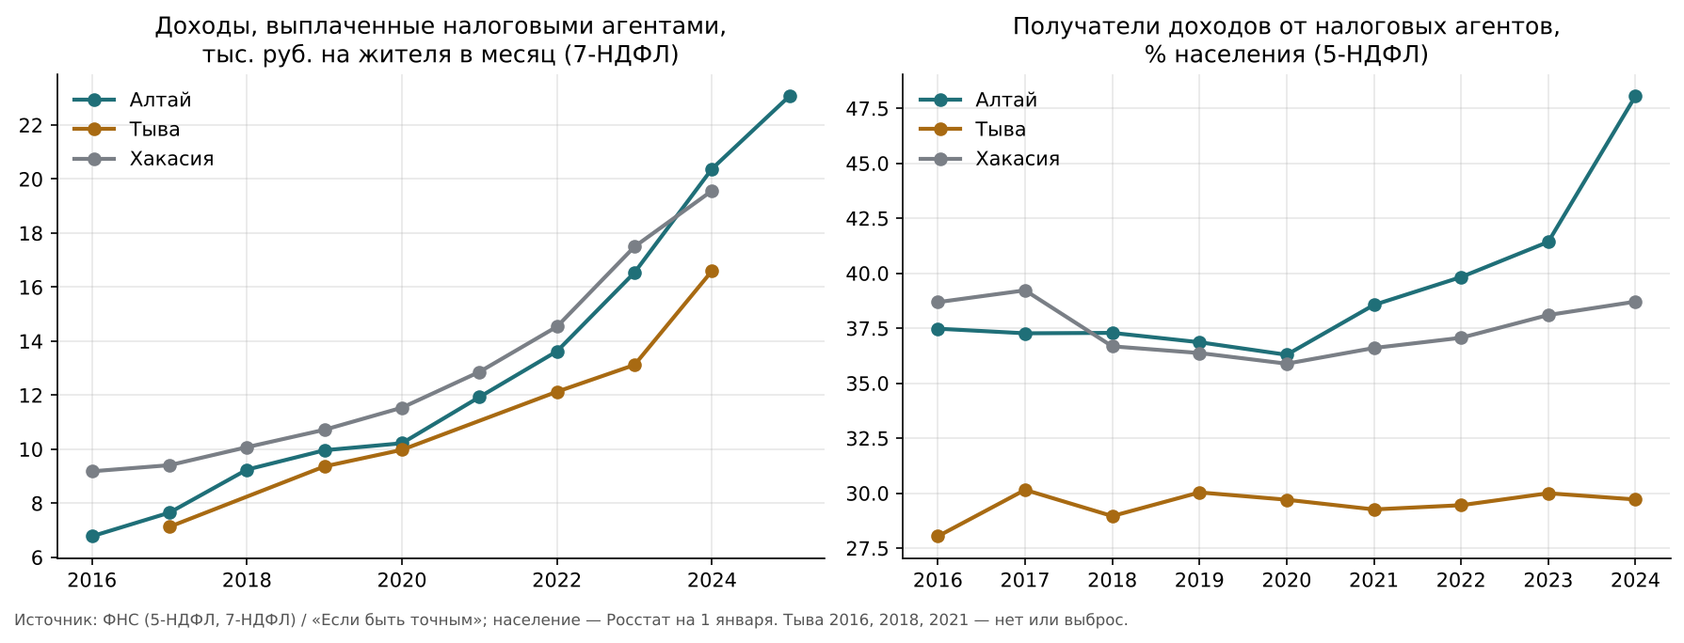
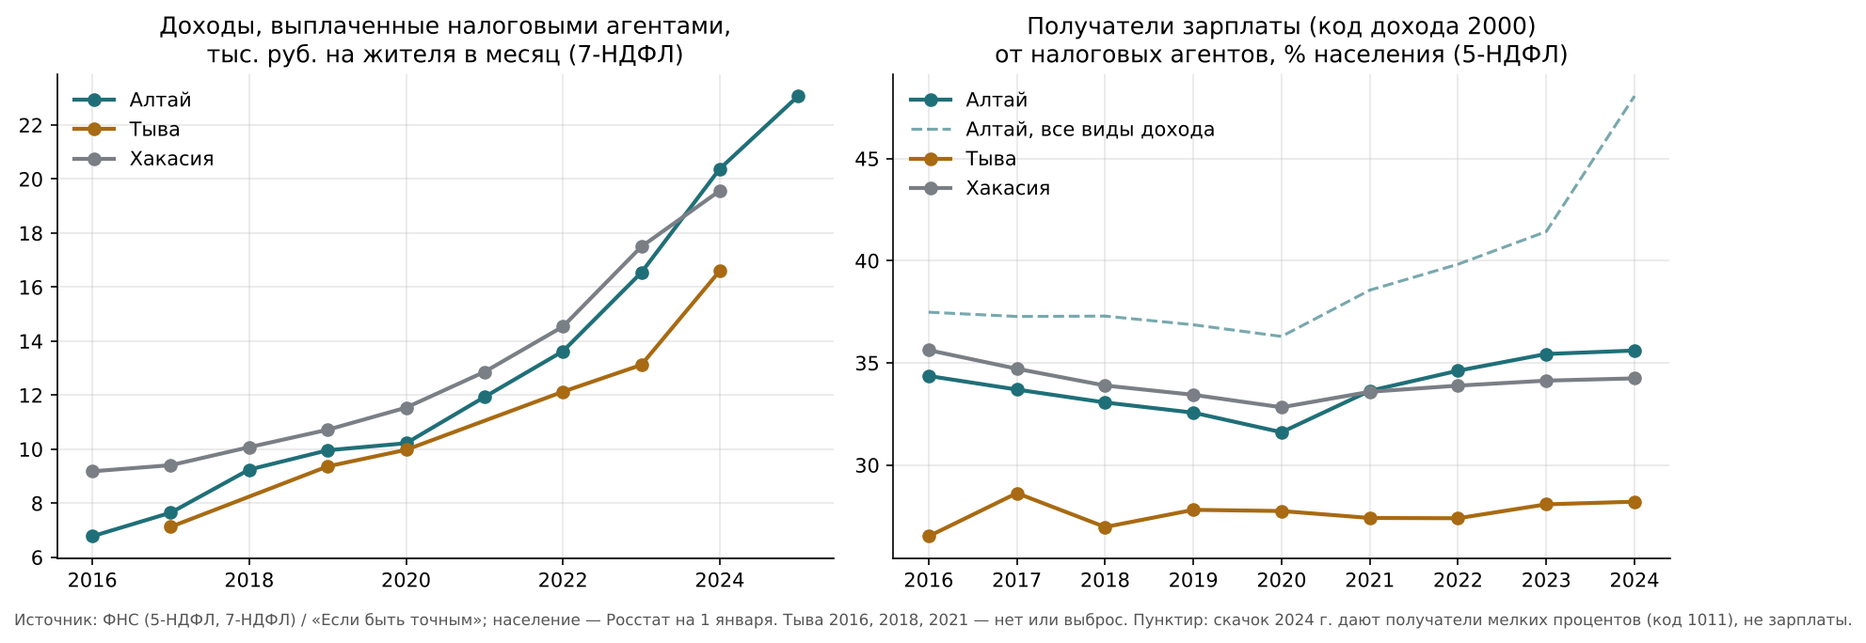
НДФЛ: кейс Турочака — получатели процентов (код 1011), доля получателей зарплаты вместо всех доходов
Claude-Session: https://claude.ai/code/session_01YWbzRBDVhnUeGXhVfuv4MR

diff --git a/scripts/dataset/build_ndfl.py b/scripts/dataset/build_ndfl.py
@@ -69,10 +69,21 @@ pop = c.sql(f"""select object_name region, year, avg(indicator_value)*1000 pop f
 pop['year'] = pop.year + 1
 pop = pd.concat([pop, pd.DataFrame([{'region': 'Республика Алтай', 'year': 2025, 'pop': 210095}])])
 pop = pop.rename(columns={'pop': 'pop_avg'})
+codes = c.sql(f"""select report_region_name region, year, income, arg_max(indicator_value, report_date) v from a
+   where index_form='5-НДФЛ' and indicator_code='Y777000028' and object_level='Субъект РФ' and report_type='Свод'
+   and individual_type in ('Всего','CD') and coalesce(tax_rate,'CD') in ('Всего','CD') and tax_authority='Всего'
+   and indicator_period='Значение показателя за год' and source not like 'Приложение%'
+   and income in ('По коду дохода 2000','По коду дохода 1011') group by all""").df()
+codes = codes.pivot_table(index=['region', 'year'], columns='income', values='v').reset_index().rename(columns={
+    'По коду дохода 2000': 'wage_earners_5', 'По коду дохода 1011': 'interest_recipients_5'})
+reg = reg.merge(codes, on=['region', 'year'], how='left')
+LOG.append('Код дохода 1011 (проценты): РА 1 411 (2023) → 15 270 (2024) получателей — именно он даёт скачок числа получателей доходов в 2024 г.; '
+           'получатели зарплаты (код 2000) почти не изменились')
 reg = reg.merge(pop[['region', 'year', 'pop_avg']], on=['region', 'year'], how='left')
 reg['income_7_per_cap_month'] = reg.income_7 / reg.pop_avg / 12
 reg['tax_7_per_cap'] = reg.tax_7 / reg.pop_avg
 reg['earners_share'] = reg.earners_5 / reg.pop_avg
+reg['wage_earners_share'] = reg.wage_earners_5 / reg.pop_avg
 reg['income_per_earner_month'] = reg.income_5 / reg.earners_5 / 12
 reg['agents_per_1000'] = reg.agents / reg.pop_avg * 1000
 # Тыва 2018: доход по 7-НДФЛ 18,3 млрд против 27,4 (2017) и 36,7 (2019) — сбой публикации
@@ -104,6 +115,13 @@ seg = c.sql("""select object_oktmo oktmo, individual_type it, arg_max(indicator_
 seg = seg.pivot_table(index='oktmo', columns='it', values='v')
 foreign = seg[[x for x in seg.columns if x.startswith('Иностранные')][0]].rename('foreign_2024')
 ip = seg[[x for x in seg.columns if x.startswith('ИП')][0]].rename('ip_2024')
+
+mc = c.sql("""select object_oktmo oktmo, income, arg_max(indicator_value, report_date) v from a
+   where report_region_name='Республика Алтай' and report_type='МО' and index_form='5-НДФЛ' and year=2024 and indicator_code='Y777000028'
+   and object_level like 'Муниц%' and indicator_period='Значение показателя за год' and individual_type in ('Всего','CD')
+   and coalesce(tax_rate,'CD') in ('Всего','CD') and tax_authority='Всего' and income in ('По коду дохода 2000','По коду дохода 1011')
+   group by all""").df().pivot_table(index='oktmo', columns='income', values='v')
+wage24 = mc['По коду дохода 2000'].rename('wage_2024'); int24 = mc['По коду дохода 1011'].rename('interest_2024')
 
 # население и ФОТ из сводного датасета
 P = pd.read_csv(OUT / 'mo_panel_long.csv', sep=';', dtype={'oktmo': str})
@@ -140,9 +158,12 @@ summ = pd.DataFrame({
     'Получателей доходов (5-НДФЛ), 2024': e5,
     'Иностранцев среди получателей, 2024': foreign,
     'ИП и главы КФХ среди получателей, 2024': ip,
+    'Получателей зарплаты (код 2000), 2024': wage24,
+    'Получателей процентов (код 1011), 2024': int24,
 })
 p24 = popm[popm.year == 2024].set_index('oktmo').pop_jan
 summ['Получатели доходов на 100 жит. (по месту учёта агента), 2024'] = (summ['Получателей доходов (5-НДФЛ), 2024'] / p24 * 100).round(1)
+summ['Получатели зарплаты на 100 жит. (по месту учёта агента), 2024'] = (summ['Получателей зарплаты (код 2000), 2024'] / p24 * 100).round(1)
 summ = summ.reset_index().rename(columns={'index': 'oktmo'})
 
 OUT.mkdir(exist_ok=True, parents=True)
@@ -153,4 +174,4 @@ summ.to_csv(OUT / 'ndfl_mo_summary.csv', sep=';', index=False, encoding='utf-8-s
 print('\n'.join(LOG))
 pd.set_option('display.width', 250)
 print(summ.to_string())
-print(reg[['region', 'year', 'income_7_per_cap_month', 'tax_7_per_cap', 'earners_share', 'income_per_earner_month', 'agents_per_1000']].round(3).to_string())
+print(reg[['region', 'year', 'income_7_per_cap_month', 'earners_share', 'wage_earners_share', 'interest_recipients_5', 'income_per_earner_month', 'agents_per_1000']].round(3).to_string())

diff --git a/scripts/dataset/export_v4.py b/scripts/dataset/export_v4.py
@@ -42,13 +42,16 @@ fig, ax = plt.subplots(1, 2, figsize=(12, 4.4))
 for r, g in reg.groupby('region'):
     g = g.dropna(subset=['income_7_per_cap_month'])
     ax[0].plot(g.year, g.income_7_per_cap_month / 1000, marker='o', lw=2, color=COL[r], label=r.replace('Республика ', ''))
-    g2 = reg[(reg.region == r)].dropna(subset=['earners_share'])
-    ax[1].plot(g2.year, g2.earners_share * 100, marker='o', lw=2, color=COL[r], label=r.replace('Республика ', ''))
+    g2 = reg[(reg.region == r)].dropna(subset=['wage_earners_share'])
+    ax[1].plot(g2.year, g2.wage_earners_share * 100, marker='o', lw=2, color=COL[r], label=r.replace('Республика ', ''))
+    if r == 'Республика Алтай':
+        g3 = reg[(reg.region == r)].dropna(subset=['earners_share'])
+        ax[1].plot(g3.year, g3.earners_share * 100, ls='--', lw=1.5, color=COL[r], alpha=.6, label='Алтай, все виды дохода')
 ax[0].set_title('Доходы, выплаченные налоговыми агентами,\nтыс. руб. на жителя в месяц (7-НДФЛ)')
-ax[1].set_title('Получатели доходов от налоговых агентов,\n% населения (5-НДФЛ)')
+ax[1].set_title('Получатели зарплаты (код дохода 2000)\nот налоговых агентов, % населения (5-НДФЛ)')
 for a in ax:
     a.grid(alpha=.3); a.spines[['top', 'right']].set_visible(False); a.legend(frameon=False)
-fig.text(0.01, -0.02, 'Источник: ФНС (5-НДФЛ, 7-НДФЛ) / «Если быть точным»; население — Росстат на 1 января. Тыва 2016, 2018, 2021 — нет или выброс.', fontsize=8, color='#555')
+fig.text(0.01, -0.02, 'Источник: ФНС (5-НДФЛ, 7-НДФЛ) / «Если быть точным»; население — Росстат на 1 января. Тыва 2016, 2018, 2021 — нет или выброс. Пунктир: скачок 2024 г. дают получатели мелких процентов (код 1011), не зарплаты.', fontsize=8, color='#555')
 fig.tight_layout(); fig.savefig(V4 / 'ndfl_regions.png', dpi=150, bbox_inches='tight'); plt.close(fig)
 
 s = summ.sort_values('То же на жителя в месяц, 2025, руб.')
@@ -90,7 +93,9 @@ RCOLS = {'region': 'Регион', 'year': 'Год', 'agents': 'Налоговы
          'tax_7': 'НДФЛ исчисленный (7-НДФЛ), руб.', 'records_7': 'Сведений о физлицах (7-НДФЛ)', 'earners_5': 'Получателей доходов (5-НДФЛ)',
          'income_5': 'Сумма дохода (5-НДФЛ), руб.', 'pop_avg': 'Население на 1 января', 'income_7_per_cap_month': 'Доходы на жителя в месяц, руб.',
          'tax_7_per_cap': 'НДФЛ на жителя в год, руб.', 'earners_share': 'Доля получателей доходов в населении',
-         'income_per_earner_month': 'Доход на получателя в месяц (5-НДФЛ), руб.', 'agents_per_1000': 'Агентов на 1000 жит.'}
+         'income_per_earner_month': 'Доход на получателя в месяц (5-НДФЛ), руб.', 'agents_per_1000': 'Агентов на 1000 жит.',
+         'wage_earners_5': 'Получателей зарплаты, код 2000 (5-НДФЛ)', 'interest_recipients_5': 'Получателей процентов, код 1011 (5-НДФЛ)',
+         'wage_earners_share': 'Доля получателей зарплаты в населении'}
 MCOLS = {'oktmo': 'ОКТМО', 'mo': 'МО', 'year': 'Год', 'agents': 'Налоговых агентов', 'income_7': 'Доходы, выплаченные агентами МО, руб.',
          'tax_7': 'НДФЛ исчисленный, руб.', 'records_7': 'Сведений о физлицах', 'pop_jan': 'Население на 1 января',
          'fot_rosstat': 'ФОТ Росстата, тыс. руб.', 'income_7_per_cap_month': 'Доходы на жителя в месяц, руб.', 'tax_7_per_cap': 'НДФЛ на жителя, руб.',

diff --git a/docs/validation_ndfl.md b/docs/validation_ndfl.md
@@ -3,7 +3,8 @@
 Источник: ФНС, формы 5-НДФЛ и 7-НДФЛ, через «Если быть точным» (набор ndfl v20260722). Региональные архивы: 04 — Республика Алтай, 17 — Тыва, 19 — Хакасия. Скрипт: `scripts/build_ndfl.py`, журнал: `ndfl_build_log.txt`.
 
 ## Что важно знать перед использованием
-- **Данные ФНС привязаны к месту учёта налогового агента (работодателя), а не к месту жительства.** Поэтому по районам это показатель «формальной экономики на территории». Горно-Алтайск (республиканские учреждения), Майма и Турочак завышены. Пример: в Турочаке по 5-НДФЛ 10 851 получатель доходов при 10,8 тыс. жителей, а по Росстату там 2 188 работников организаций. Значит, в Турочаке зарегистрирован крупный агент, который платит людям из других районов.
+- **Данные ФНС привязаны к месту учёта налогового агента (работодателя), а не к месту жительства.** Поэтому по районам это показатель «формальной экономики на территории». Горно-Алтайск (республиканские учреждения) и Майма завышены.
+- **Число «получателей доходов» искажено получателями мелких процентов (код дохода 1011).** Пример — Турочак, подробности ниже. Для оценки занятости используется число получателей зарплаты (код 2000).
 - **По районам 7-НДФЛ пригоден только с 2022 г.** В 2016–2021 гг. опубликованы данные почти одного Горно-Алтайска, по остальным районам нули (данные скрыты).
 - **5-НДФЛ по районам есть только за 2024 г.**
 
@@ -14,7 +15,7 @@
 | Сумма МО / свод по РА, доходы 7-НДФЛ | 2022 — 96,7 %; 2023 — 96,8 %; 2024 — 93,6 % (без Чемала); 2025 — 97,4 % |
 | Сумма МО / свод по РА, налог исчисленный | 99,7 %; 100 %; 96,3 %; 100 % |
 | Сумма МО / свод по РА, число агентов | 101,5 %; 100,8 %; 94,8 %; 100,6 % |
-| Получатели доходов 2024: сумма по МО против региона | 120 285 против 101 307 (+19 %). Это ожидаемо: человек, получающий доход от агентов в разных МО, учтён в каждом из них. В районах он учитывается по каждому агенту, в региональной сумме — один раз |
+| Получатели доходов 2024: сумма по МО против региона (включая получателей процентов) | 120 285 против 101 307 (+19 %). Это ожидаемо: человек, получающий доход от агентов в разных МО, учтён в каждом из них. В районах он учитывается по каждому агенту, в региональной сумме — один раз |
 | Средний доход на получателя (5-НДФЛ) против средней зарплаты Росстата, РА 2024 | 40,9 тыс. против 63,5 тыс. руб./мес. (64 %). Согласуется: в 5-НДФЛ входят неполные годы, совместительство и разовые выплаты |
 
 ## Что исключено или исправлено
@@ -28,9 +29,29 @@
 
 ## Главные выводы (для слайдов; формулировки с оговоркой о месте учёта агента)
 1. **Республика Алтай обогнала Хакасию** по доходам, выплаченным налоговыми агентами, в расчёте на жителя: 20,4 тыс. против 19,6 тыс. руб./мес. в 2024 г. В 2016 г. было 6,8 тыс. против 9,2 тыс. Рост за 2016–2024 гг. в 3,0 раза, у Хакасии в 2,1 раза, у Тывы в 2,3 раза (2017–2024).
-2. **Доля жителей с доходами от налоговых агентов выросла** с 36–37 % (2016–2020) до 48 % (2024), причём рывок пришёлся на 2024 г. (+6,7 п. п.). У Хакасии стабильно 36–39 %, у Тывы около 30 %. Гипотеза: стройки Манжерока и обеление туризма. Ряд проверить по 2025 г., когда его опубликуют.
+2. **Доля жителей, получающих зарплату от налоговых агентов** (код 2000), выросла с 31,6 % (2020) до 35,6 % (2024). С 2021 г. она выше, чем в Хакасии (34,3 %), у Тывы 28 %. Общее число получателей доходов подскочило до 48 % в 2024 г., но этот скачок дали получатели процентов (код 1011), а не занятость. См. «Кейс Турочака».
 3. **Средний доход на получателя ниже, чем у соседей:** 40,9 тыс. руб. против 48,7 тыс. (Тыва) и 49,1 тыс. (Хакасия) в 2024 г. Официальных получателей больше, но доходы ниже. Вероятно, сказываются сезонность и неполная занятость.
 4. **Налоговых агентов на 1000 жителей:** 32 в РА против 23 в Хакасии и 13 в Тыве. У РА самая плотная сеть мелких работодателей.
 5. **Внутри республики разрыв в 4 раза.** Майма: 37,4 тыс. руб./мес. на жителя, рост +134 % за 2022–2025 гг. Горно-Алтайск: 33,2 тыс. Периферийные районы: 8,9–12,9 тыс. (Усть-Кан минимум).
 6. **Майма: ФОТ Росстата покрывает лишь 52 % доходов по 7-НДФЛ** (в периферийных районах 83–96 %). Половина выплат идёт мимо крупных и средних организаций: малый бизнес, стройка, туризм.
 7. **Иностранцы:** 1 144 из 1 850 иностранных получателей доходов в республике (62 %) приходятся на Майминский район.
+
+## Кейс Турочака (проверено 27.10.2026)
+**Симптом.** В 2024 г. по 5-НДФЛ в Турочакском районе 10 851 получатель доходов при 10,8 тыс. жителей (100 на 100 жителей). По Росстату там 2 188 работников организаций. По 7-НДФЛ число сведений о физлицах выросло с 5 007 (2023 г.) до 11 470 (2024 г.), а сумма выплат — всего на 28 %.
+
+**Разбор по кодам дохода (5-НДФЛ, 2024 г.):**
+
+| Код дохода | Турочак, чел. | Сумма | Для сравнения |
+|---|---|---|---|
+| 1011 — проценты | **6 223** | **0,39 млн руб. (≈ 62 руб. на человека)** | Чемал — 2, Майма — 3, Чоя — 0 |
+| 2000 — зарплата | 4 146 | 1 486 млн руб. | Чемал — 4 077 |
+| 2012, 2002, 2013 — отпускные, премии, компенсации | 1 400–2 100 | — | в пропорции, как у соседей |
+
+**Вывод.** Аномалию даёт налоговый агент (или несколько), зарегистрированный в Турочакском районе. В 2024 г. он выплатил тысячам людей символические проценты, в среднем около 62 руб. Без кода 1011 Турочак выглядит обычно: 38 получателей зарплаты на 100 жителей, как в Чемале (38,6). Кто именно этот агент, по открытым данным ФНС установить нельзя: агенты в них не раскрываются. Это может быть кредитный кооператив, займовая или бонусная программа.
+
+**Масштаб по республике.** Получателей процентов (код 1011) стало 1 411 в 2023 г. и 15 270 в 2024 г. Это почти весь прирост числа получателей доходов (+13 859 из +13 980). Получатели зарплаты за тот же год почти не изменились: 74 695 → 75 050. Второй центр — Горно-Алтайск: 11 036 получателей процентов на 65 млн руб. (около 5,9 тыс. руб. на человека, похоже на проценты по сбережениям). Похожий рост кода 1011 есть и в Хакасии (5 592 → 9 243), в Тыве его нет.
+
+**Что поправлено.**
+- Добавлены поля «получатели зарплаты (код 2000)» и «получатели процентов (код 1011)» по районам (2024 г.) и регионам (2016–2024 гг.).
+- Вывод о «рывке занятости в 2024 г.» снят.
+- На суммы доходов и налога это не влияет: проценты в Турочаке — 0,4 млн руб. из 2,2 млрд.

diff --git a/docs/altai_context.md b/docs/altai_context.md
@@ -309,7 +309,7 @@
 ## 7d. Налоговая отчётность по НДФЛ (датасет v4, 27.10.2026; подробно — `claude/altai_ndfl_v4.md`)
 - Данные ФНС по месту учёта налогового агента (работодателя), не жителя: по районам это «формальная экономика на территории»; по МО полно с 2022 г.
 - РА обогнала Хакасию по доходам от налоговых агентов на жителя: 20,4 против 19,6 тыс. руб./мес. (2024), в 2016 г. было 6,8 против 9,2; рост ×3,0 (Хакасия ×2,1, Тыва ×2,3).
-- Доля жителей с доходами от агентов: 36–37 % (2016–2020) → 48 % (2024, рывок +6,7 п. п.); Хакасия 36–39 %, Тыва ~30 %. Средний доход на получателя ниже соседей (40,9 против 48,7–49,1 тыс.).
+- Доля жителей, получающих зарплату от агентов (код 2000): 31,6 % (2020) → 35,6 % (2024), с 2021 г. выше Хакасии (34,3 %), Тыва ~28 %. «Скачок» общего числа получателей доходов в 2024 г. (до 48 %) — артефакт: +13,9 тыс. получателей мелких процентов (код 1011), в т.ч. 6,2 тыс. в Турочаке (≈62 руб. на человека от агента, зарегистрированного в районе). Средний доход на получателя ниже соседей (40,9 против 48,7–49,1 тыс.).
 - Агентов на 1000 жит.: 32 (РА) против 23 (Хакасия) и 13 (Тыва).
 - Внутри республики разрыв в 4 раза: Майма 37,4 тыс. руб./мес. на жителя (+134 % за 2022–2025), Горно-Алтайск 33,2, периферия 8,9–12,9 (Усть-Кан минимум). В Майме ФОТ Росстата покрывает лишь 52 % доходов по 7-НДФЛ; 62 % иностранных получателей доходов — в Майминском районе.
 
